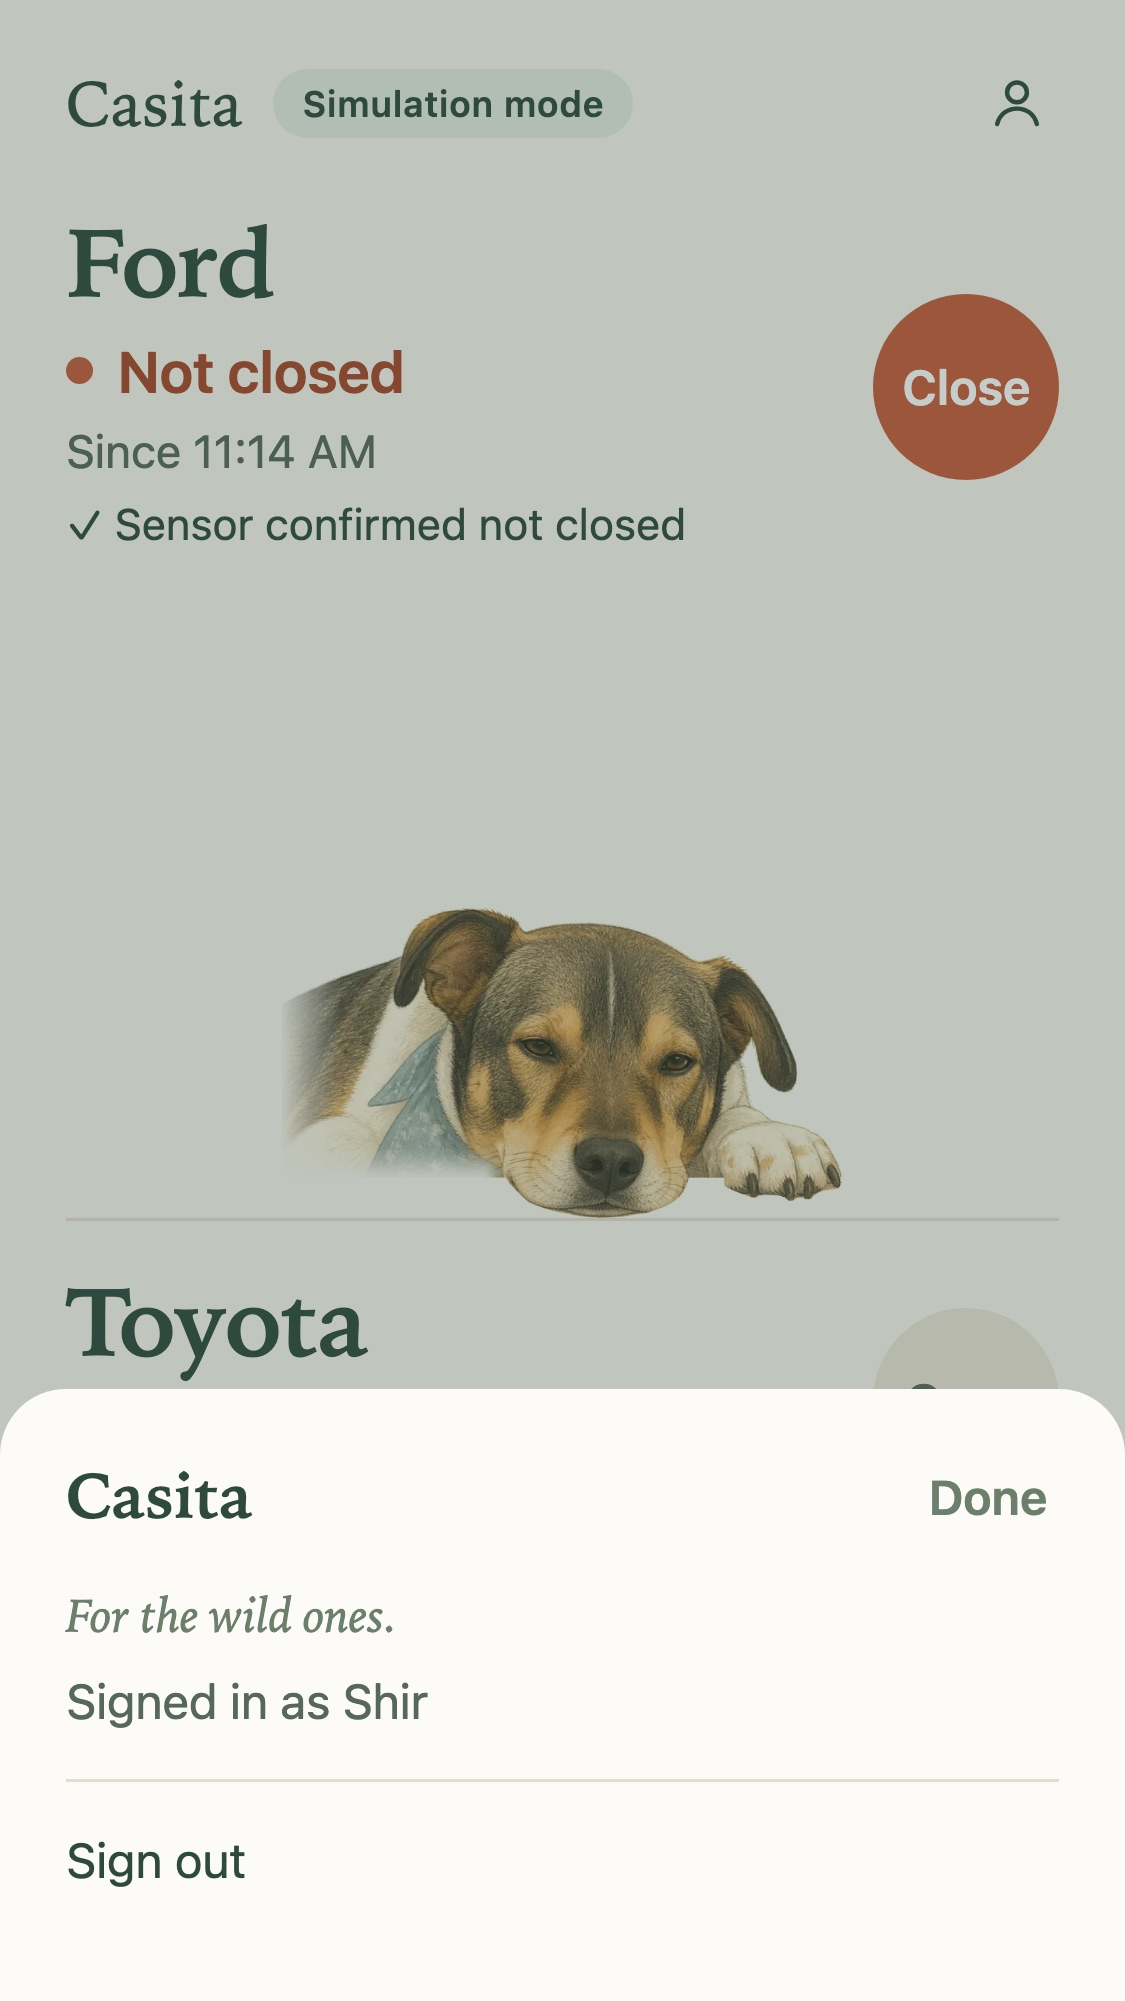
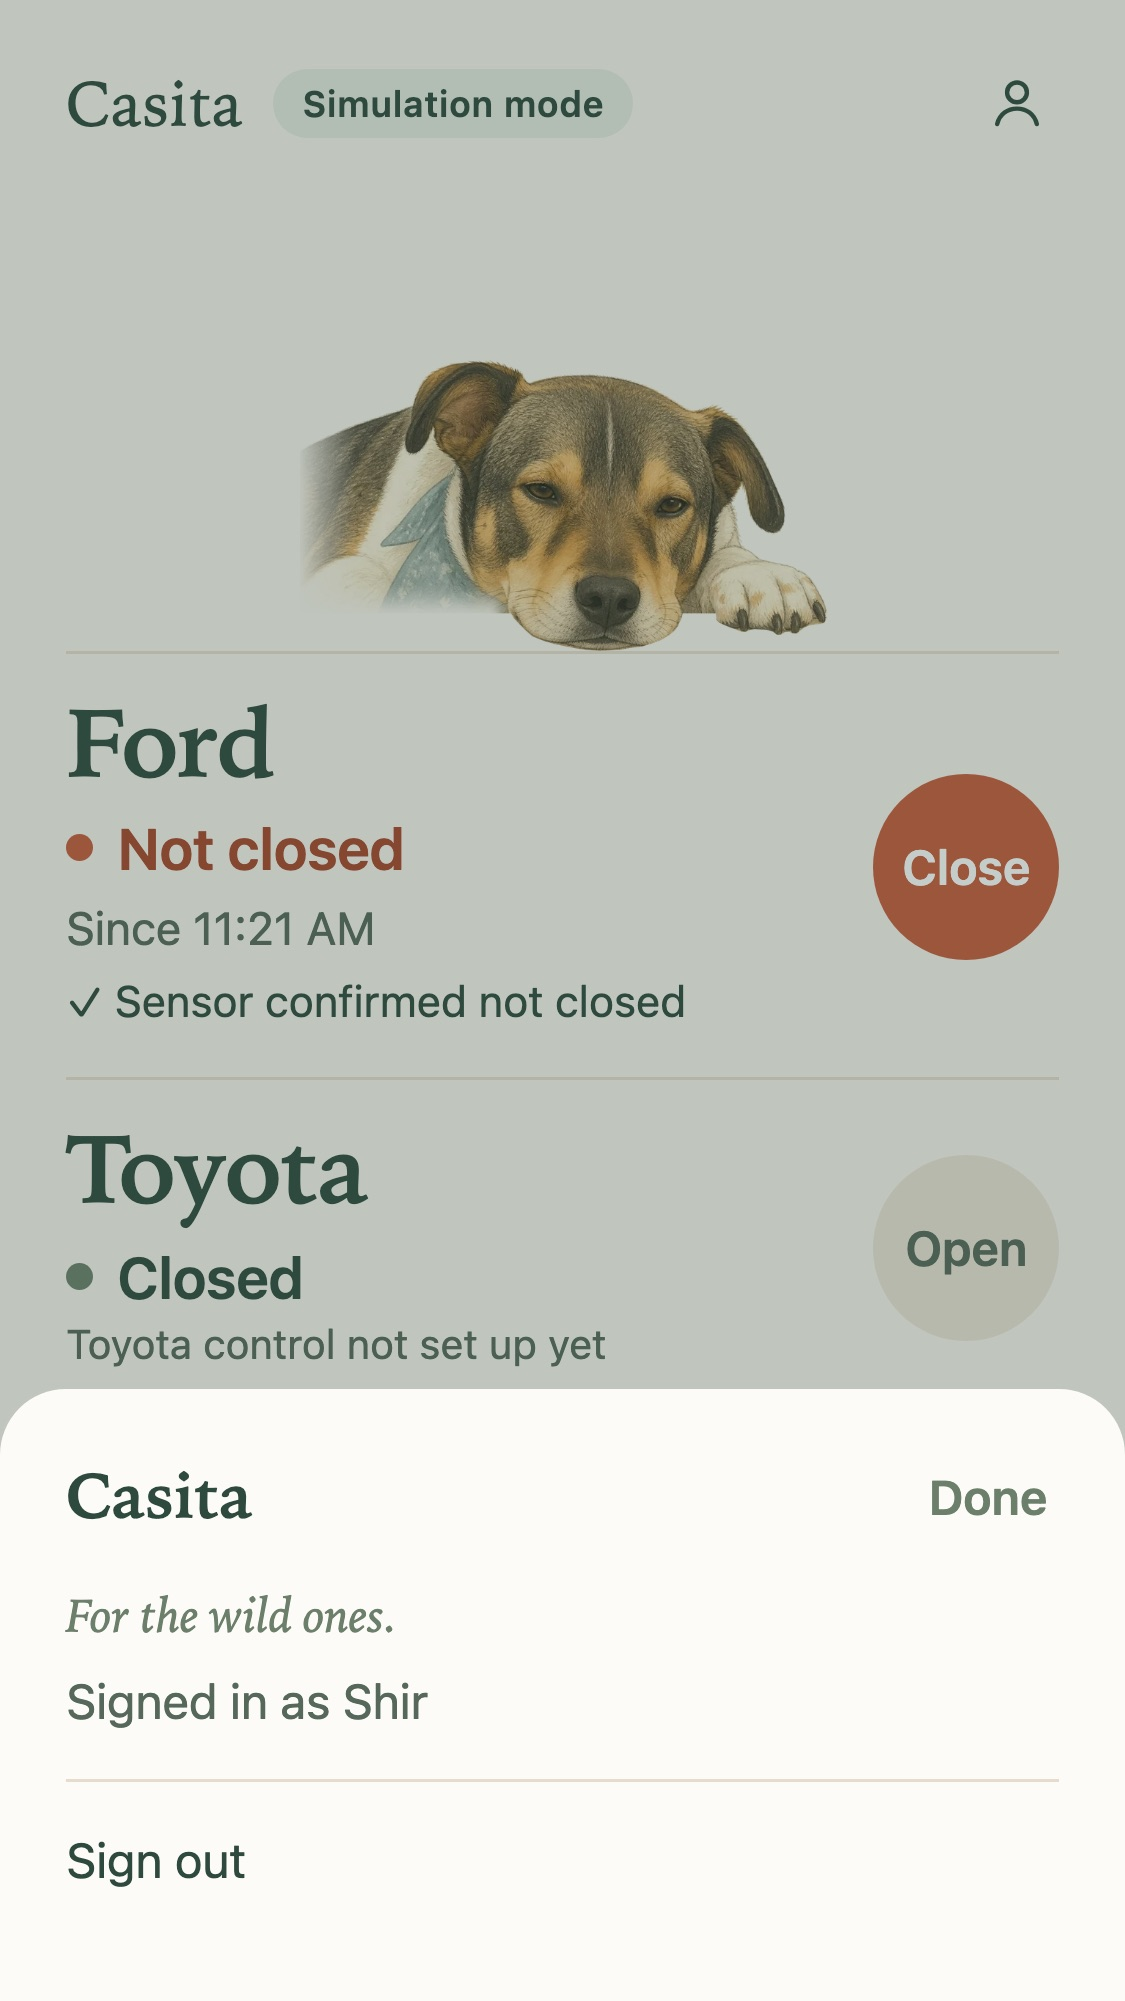
Casita home: Watson on top, looking over both doors
The approved final composition:
- Watson's approved illustration moves to the top, under the header, his
  chin on the line above Ford. About 60% of the screen wide, at most 236 pt
  (176 on an SE); only scaled, never cropped.
- Ford and Toyota sit together below him, one fine hairline between them.
  Names, status dots, timestamps and round controls are unchanged.
- A quarter of the spare height goes above Watson and the rest below the
  doors, so the group sits high and history stays at the bottom. Nothing moves
  when a door starts or stops (checked in the browser at both sizes).
- Offline still shows ET phone home in place of the doors.
- docs/APP.md and docs/screens updated.

Simulated doors only. No door logic, security or Meross changes.

diff --git a/src/main/resources/static/casita.css b/src/main/resources/static/casita.css
@@ -56,18 +56,17 @@ h1, h2 { font-weight: 600; margin: 0; }
 }
 .tag.shown { display: inline-block; }
 
-/* Ford above, Toyota below, Watson resting on the hairline between them. Each door sits at the top of its
-   own area, Ford just under the header and Toyota just under the divider; the spare height is split
-   evenly below each door, so the two areas balance and both fit a small iPhone without scrolling. */
-.doors { flex: 1; display: flex; flex-direction: column; min-height: 0; }
-#door-0 { margin-top: 22px; }
-#door-1 { margin-top: 26px; }
-.gap { flex: 1; min-height: 12px; }
-.doors[hidden], .door[hidden], .offline[hidden] { display: none; }
+/* Watson on top, resting his chin on the line above Ford; Ford and Toyota together below him, one
+   hairline between them. A quarter of the spare height goes above Watson and the rest below the doors,
+   so the group sits high under the header; both doors fit a small iPhone without scrolling. */
+.spare { flex: 1; min-height: 4px; }
+.spare.below { flex: 3; }
+.spare[hidden], .doors[hidden], .door[hidden], .offline[hidden] { display: none; }
+.doors { flex: none; }
 
 /* Each door: its name as the heading of its area, then its status, then its one round control on the
    right. Both doors are equal; colour only ever says status or action, never which car. */
-.door { flex: none; display: flex; align-items: center; justify-content: space-between; gap: 16px; }
+.door { display: flex; align-items: center; justify-content: space-between; gap: 16px; padding: 26px 0; }
 .door-text { min-width: 0; }
 .door .name {
   margin: 0; font-family: var(--serif); font-weight: 600; font-size: 2.25rem; line-height: 1.05;
@@ -111,12 +110,12 @@ h1, h2 { font-weight: 600; margin: 0; }
 .go:active:not(:disabled) { transform: scale(0.96); }
 .go:disabled { background: var(--sand-soft); color: var(--muted); cursor: default; }
 
-/* Watson peeks over the divider: chin on the hairline. Sized by width, about half the screen, at most 220 pt;
-   the approved art (4:3) is fitted, never cropped. Hidden, with no stand-in, until it is configured. */
-.fence { flex: none; }
-.companion { margin: 0; display: flex; justify-content: center; }
+/* Watson: the approved art (4:3, transparent), chin on the line above Ford. About 60% of the screen wide,
+   at most 236 pt (the art is 720 px, so it stays sharp at 3x); fitted, never cropped. Its top quarter is
+   transparent, so it tucks a little under the space above. Hidden, with no stand-in, until configured. */
+.companion { margin: -12px 0 0; display: flex; justify-content: center; }
 .companion[hidden] { display: none; }
-.companion img { display: block; width: clamp(150px, 50vw, 220px); height: auto; aspect-ratio: 4 / 3; object-fit: contain; object-position: bottom; }
+.companion img { display: block; width: clamp(150px, 60vw, 236px); height: auto; aspect-ratio: 4 / 3; object-fit: contain; object-position: bottom; }
 .hairline { height: 1px; background: var(--hairline); }
 
 /* ET phone home: in place of both doors, with nothing to press. */
@@ -199,12 +198,11 @@ button.row .when::after { content: "›"; margin-left: 8px; font-size: 1.2rem; c
 
 /* Smaller iPhones (SE): both doors and controls keep their room; Watson and the spacing shrink first. */
 @media (max-height: 700px) {
+  .door { padding: 14px 0; }
   .door .name { font-size: 2rem; }
   .door .state { font-size: 1.2rem; margin-top: 6px; }
   .go { width: 62px; height: 62px; }
-  #door-0 { margin-top: 14px; }
-  #door-1 { margin-top: 18px; }
-  .companion img { width: clamp(140px, 50vw, 188px); }
+  .companion img { width: 176px; }
 }
 
 @media (prefers-reduced-motion: reduce) {

diff --git a/src/main/resources/static/index.html b/src/main/resources/static/index.html
@@ -24,21 +24,18 @@
       </button>
     </header>
 
-    <!-- Two doors, one house: each door is filled in by app.js from /api/doors. Each sits at the top of
-         its own area (Ford under the header, Toyota under the divider); the spare height is split below each. -->
+    <!-- Two doors, one house. Watson (the approved casita.brand.illustration) rests his chin on the line
+         above Ford, looking over both doors; Ford and Toyota sit together below him, filled in by app.js.
+         A quarter of the spare height goes above him and the rest below the doors. -->
+    <div class="spare" id="spare-above"></div>
     <div class="doors" id="doors">
+      <figure class="companion" id="companion" hidden><img id="companion-art" alt=""></figure>
+      <div class="hairline"></div>
       <section class="door" id="door-0" aria-live="polite"></section>
-      <div class="gap"></div>
-
-      <!-- The companion's approved illustration (casita.brand.illustration), resting on the divider. -->
-      <div class="fence">
-        <figure class="companion" id="companion" hidden><img id="companion-art" alt=""></figure>
-        <div class="hairline"></div>
-      </div>
-
+      <div class="hairline"></div>
       <section class="door" id="door-1" aria-live="polite"></section>
-      <div class="gap"></div>
     </div>
+    <div class="spare below" id="spare-below"></div>
 
     <section class="offline" id="offline" hidden aria-live="polite">
       <p class="state" id="offline-word"></p>

diff --git a/src/main/resources/static/app.js b/src/main/resources/static/app.js
@@ -40,6 +40,7 @@
     if (offline || !doors) {
       // ET phone home: no stale status, no history, nothing to press.
       $("doors").hidden = true;
+      $("spare-above").hidden = $("spare-below").hidden = true;
       $("history-open").hidden = true;
       $("offline").hidden = false;
       $("offline-word").textContent = VOICE.offline[0];
@@ -48,6 +49,7 @@
       return;
     }
     $("doors").hidden = false;
+    $("spare-above").hidden = $("spare-below").hidden = false;
     $("history-open").hidden = false;
     $("offline").hidden = true;
 

diff --git a/docs/APP.md b/docs/APP.md
@@ -86,12 +86,12 @@ casita:
 
 ## The app
 
-Two doors, one house: Ford above, Toyota below, with equal weight, and Watson between them.
+Two doors, one house: Watson at the top, looking over Ford and Toyota, which sit together below him
+with equal weight.
 
 - **Each door** is its own area, headed by its name in large serif type (36 pt, 32 on a small
   iPhone). Under it: the status (a dot and a word, coloured only by status), one short line, and on
-  the right one round control (68 pt, 62 on a small iPhone). Ford sits just under the header and
-  Toyota just under the divider; the spare height is split evenly below each. States: *Closed* and *Not closed* ("Since 6:42 PM"),
+  the right one round control (68 pt, 62 on a small iPhone). One fine hairline separates the doors. States: *Closed* and *Not closed* ("Since 6:42 PM"),
   *Opening…* / *Closing…* ("About 6 seconds"), *Checking…*, *Unknown* ("The sensor can't confirm
   where Ford is."), *Needs a check* (held).
 - **Which doors can be commanded comes from the server.** A door's control is enabled only when
@@ -101,11 +101,11 @@ Two doors, one house: Ford above, Toyota below, with equal weight, and Watson be
   disabled. Toyota commands are separate work (per-door endpoints, each door run separately,
   Ford's safety rules), reviewed on their own; once the server reports Toyota controllable, its
   control works with no page change, and on a real door only when the server reports it live.
-- **Watson** peeks over the hairline between the doors, chin on the line: the approved
-  illustration (`casita.brand.illustration`, `static/brand/watson-home.webp`, 4:3, transparent),
-  about half the screen wide and at most 220 pt (197 pt on a standard iPhone, 188 on an SE). It is
-  fitted, never cropped, and never overlaps a door's status or control. Without it configured, the
-  page shows no illustration and no placeholder.
+- **Watson** sits under the header, his chin on the line above Ford: the approved illustration
+  (`casita.brand.illustration`, `static/brand/watson-home.webp`, 4:3, transparent), about 60% of the
+  screen wide and at most 236 pt (176 on an SE). It is fitted, never cropped. A quarter of the spare
+  height goes above him and the rest below the doors, so the group sits high. Without the
+  illustration configured, the page shows none and no placeholder.
 - **Can't reach home:** "ET phone home" and "Can't reach home. Trying again…", with *Waiting for
   connection* in place of both doors. No stale status or history, nothing to press, nothing retried.
 - **Measured versus estimated.** The sensor measures only closed / not closed, so the app never says
